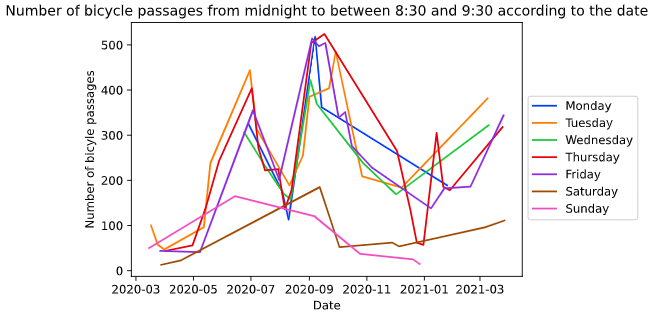
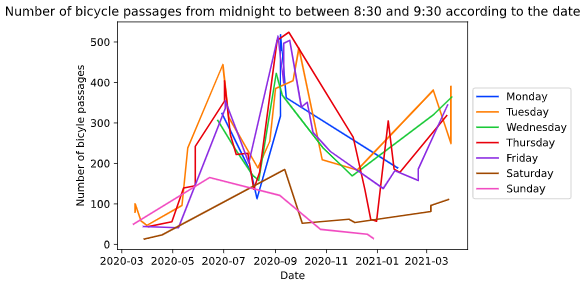
Update prediction

Changed region(s): [[0.0, 0.0, 1.0, 0.9929], [0.5846, 0.8227, 0.6462, 0.8511]]

diff --git a/bikeprediction/vis/multivariate_regression.py b/bikeprediction/vis/multivariate_regression.py
@@ -1,0 +1,44 @@
+import datetime as dt
+import matplotlib.pyplot as plt
+from sklearn.preprocessing import StandardScaler
+import statsmodels.api as sm
+
+def predict(Date, Number_seconds):
+    return 1.3260 * Date + 0.0245 * Number_seconds -9.789e+05
+
+def predict_all(self, lst_date, lst_nb_seconds):
+    predicted_bikes = []
+    for n in self.index:
+        predicted_bikes.append(predict(lst_date[n], lst_nb_seconds[n]))
+    return predicted_bikes
+
+def multivariate_regression(self): 
+    self['Date'] = self['Date'].map(dt.datetime.toordinal)
+    Y = self['Number of bikes from 00:01 to the given time']
+    X = self[['Date', 'Number seconds']]
+
+    fig = plt.figure()
+    ax = fig.add_subplot(1,2,1, projection='3d')
+    ax.scatter(self["Date"], self["Number seconds"], self["Number of bikes from 00:01 to the given time"], c='orange', marker='.')
+    ax.set_xlabel('Date')
+    ax.set_ylabel('Number of seconds')
+    ax.set_zlabel('Number of bicycle passages')
+    ax.set_title('Number of bicycle passages from 00:01 to the given time \n according to the date and the time')
+    plt.show()
+
+    X = sm.add_constant(X) #add an intercept (beta_0) to our model
+    scale = StandardScaler()
+    X_scaled = scale.fit_transform(X[['Date', 'Number seconds']])
+    est = sm.OLS(Y, X).fit()
+    print(est.summary())
+
+    fig = plt.figure()
+    ax = fig.add_subplot(1, 2, 2, projection='3d')
+    ax.plot_trisurf(self["Date"], self["Number seconds"], predict_all(self, self["Date"], self["Number seconds"]))
+    ax.set_xlabel('Date')
+    ax.set_ylabel('Number of seconds')
+    ax.set_zlabel('Number of bicycle passages')
+    ax.set_title('Multivariate regression of the number of bicycle \n passages from 00:01 to the given time \n according to the date and the time')
+    plt.show()
+
+    return X_scaled

diff --git a/bikeprediction/vis/linear_regression_adjustment.py b/bikeprediction/vis/linear_regression_adjustment.py
@@ -1,0 +1,38 @@
+from sklearn.model_selection import train_test_split 
+import numpy as np
+import matplotlib.pyplot as plt
+from sklearn.linear_model import LinearRegression
+from sklearn.preprocessing import PolynomialFeatures
+
+def linear_regression_adjustment(self):
+    X = self['Date']
+    y = self['Number of bikes from 00:01 to the given time']
+
+    X = np.asarray(range(0, len(X)))
+    y = np.asarray(y)
+
+    X = X[:, np.newaxis]
+    y = y[:, np.newaxis]
+
+    X_train, X_test, y_train, y_test = train_test_split(X, y, test_size=0.2, random_state=0)
+
+    lin_reg = LinearRegression()
+    lin_reg.fit(X, y)
+
+    poly_reg = PolynomialFeatures(degree=3)
+    X_poly = poly_reg.fit_transform(X)
+    pol_reg = LinearRegression()
+    pol_reg.fit(X_poly, y)
+
+    print("The prediction is : ", lin_reg.predict([[93]]))
+    print("The adjusted R^2 is : ",pol_reg.score(X_poly, y))
+    print("The adjusted prediction is : ", pol_reg.predict(poly_reg.fit_transform([[93]])))
+
+    plt.scatter(X, y, color='orangered')
+    plt.plot(X, pol_reg.predict(poly_reg.fit_transform(X)), color='blue')
+    plt.title('Polynomial regression of the number of bicycle passages from midnight \n to between 8:30 and 9:30 according to the date')
+    plt.xlabel('Date')
+    plt.ylabel('Number of bicycle passages')
+    plt.show()
+    
+    return X_train, X_test, y_train, y_test

diff --git a/script.py b/script.py
@@ -1,12 +1,22 @@
 #%% prediction
 import bikeprediction
+
 bike_df = bikeprediction.load_bike().save_as_df()
 bike_formated_df = bikeprediction.df_formatting(bike_df)
 bike_date_formated_df = bikeprediction.date_formated(bike_formated_df)
 bike_df_weekday = bikeprediction.weekday_column(bike_date_formated_df)
 bike_weekday = bikeprediction.plot_weekday(bike_df_weekday)
+
+# Linear regression
 linear_regression = bikeprediction.linear_regression(bike_weekday)
-bike_weekday
+
+# Adjusted linear regression
+linear_regression_adjusted = bikeprediction.linear_regression_adjustment(bike_weekday)
+
+# Multivaried regression
+bike_df_seconds = bikeprediction.nb_seconds(bike_df_weekday)
+multivaried_regression = bikeprediction.multivariate_regression(bike_df_seconds)
+print("The prediction is",bikeprediction.predict(737882, 9 * 3600))
 #%% vis
 import bikeprediction
 import shutil

diff --git a/bikeprediction/__init__.py b/bikeprediction/__init__.py
@@ -3,6 +3,10 @@ from .io.load_bike import load_bike
 from .preprocess.df_formatting import df_formatting
 from .preprocess.df_formatting import weekday_column
 from .preprocess.format_date import date_formated
+from .preprocess.nb_seconds import nb_seconds
 from .vis.plot_bike_weekday import plot_weekday
 from .vis.linear_regression import linear_regression
+from .vis.linear_regression_adjustment import linear_regression_adjustment
+from .vis.multivariate_regression import multivariate_regression
+from .vis.multivariate_regression import predict
 from .vis.load_file import load_file

diff --git a/bikeprediction/vis/plot_bike_weekday.py b/bikeprediction/vis/plot_bike_weekday.py
@@ -3,7 +3,7 @@ import seaborn as sns
 
 def plot_weekday(self):
     df = self[(self["Hour"] < "09:30:00") & (self["Hour"] > "08:30:00")]
-    df = df.drop_duplicates(subset = ['Date'], keep = 'last')
+    # df = df.drop_duplicates(subset = ['Date'], keep = 'last')
     mond_df = df[df['Weekday'] == 0]
     tues_df = df[df['Weekday'] == 1]
     wedn_df = df[df['Weekday'] == 2]

diff --git a/bikeprediction/preprocess/nb_seconds.py b/bikeprediction/preprocess/nb_seconds.py
@@ -1,0 +1,8 @@
+import pandas as pd
+import datetime as datetime
+
+def nb_seconds(self):
+    df = self
+    df[["h","m","s"]] = df["Hour"].astype(str).str.split(":", expand=True).astype(int)
+    df['Number seconds'] = df['h'] * 3600 + df['m'] * 60 + df['s']
+    return df

diff --git a/bikeprediction/vis/linear_regression.py b/bikeprediction/vis/linear_regression.py
@@ -23,4 +23,3 @@ def linear_regression(self):
     prediction = predict(737882, slope, intercept)
     print("The prediction is : ",prediction)
     return r_value, p_value, std_err
-
